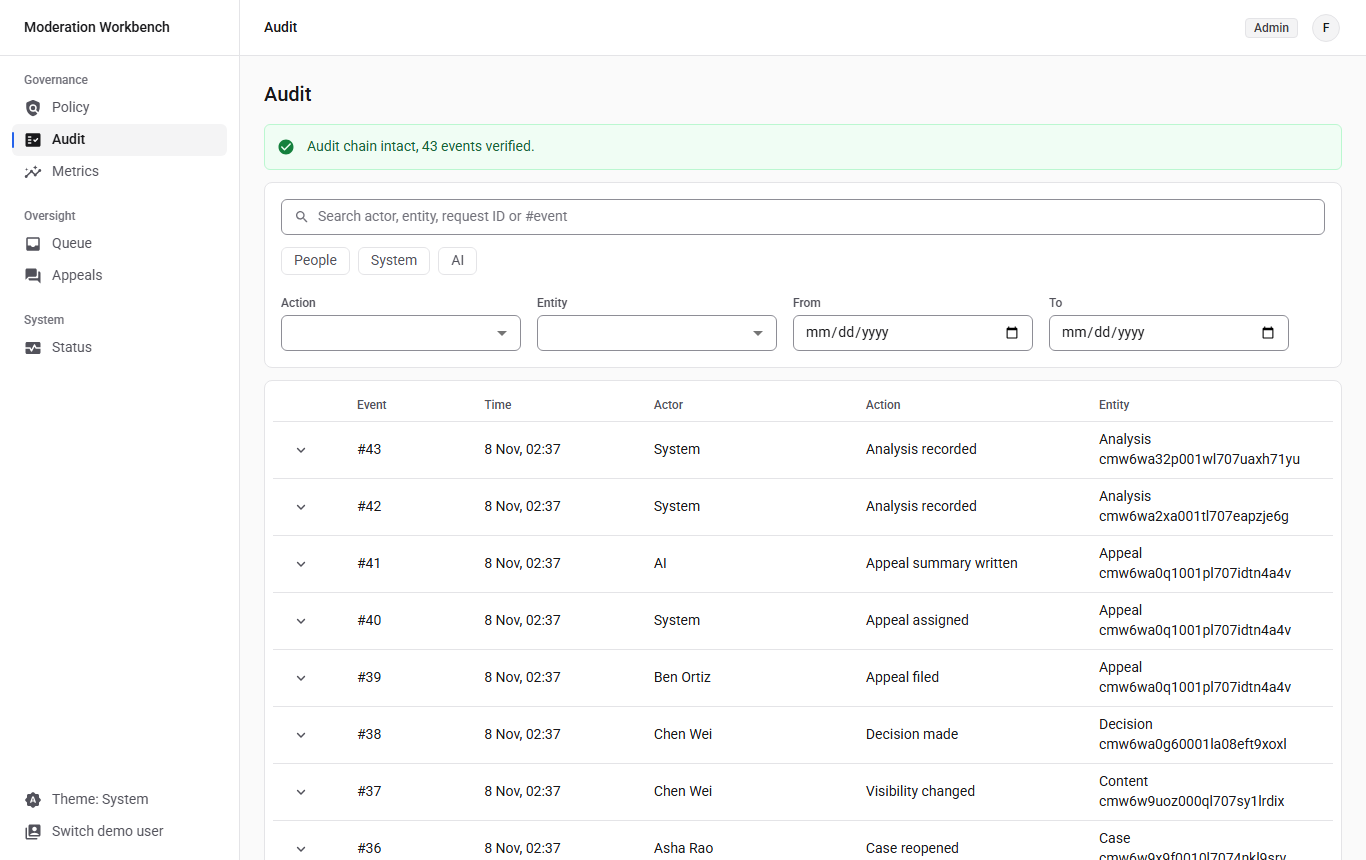
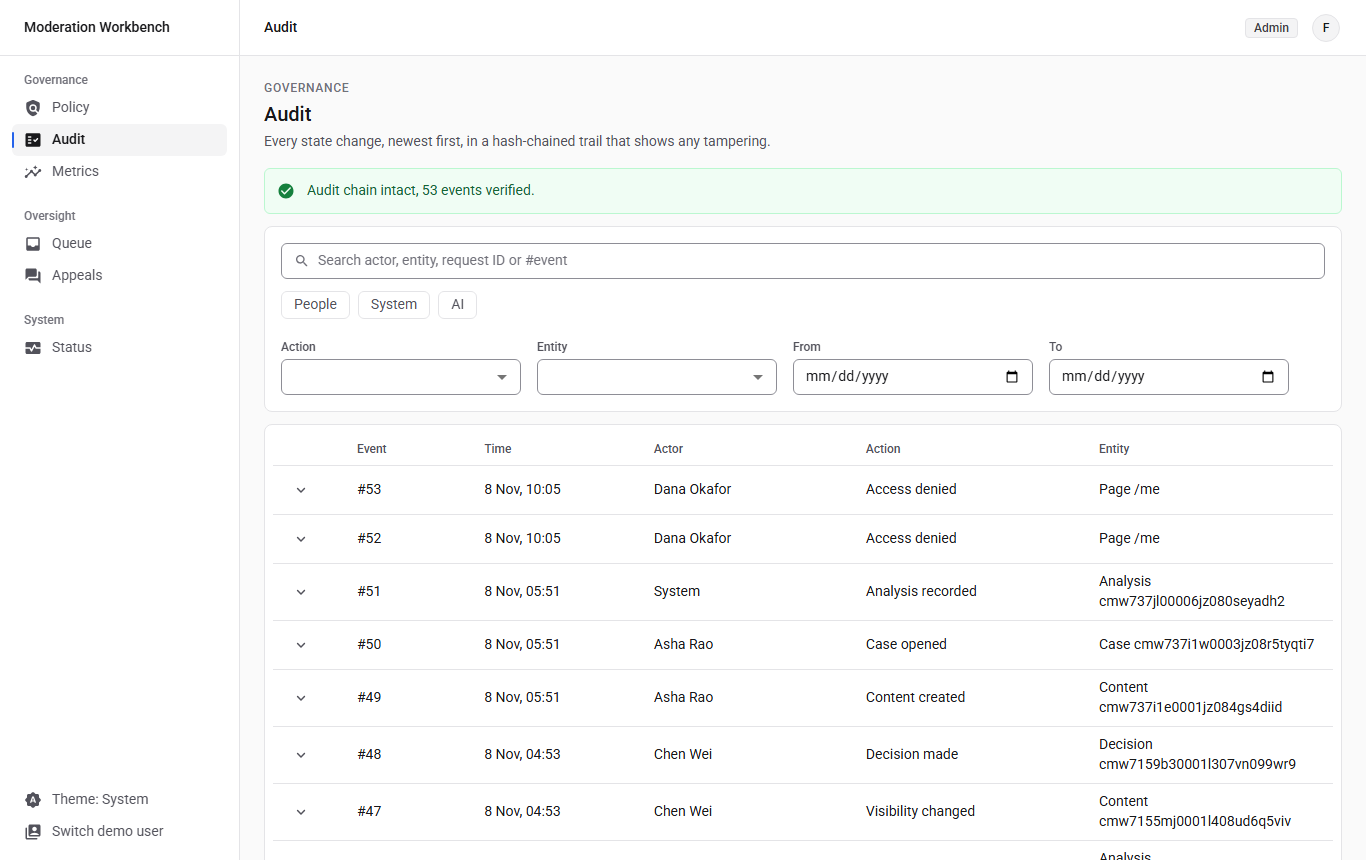
docs: screenshots of the queue table and case review, 1.0.5 release record
The README shows the queue, case review, appeal review and status pages from the live deployment; the release
notes record the checks for 943576b.

diff --git a/README.md b/README.md
@@ -79,13 +79,14 @@ ID in their name. `npm run check:trace -- --strict` maps each criterion to its t
 
 Taken from the live deployment (light theme; dark theme follows the system setting or the toggle).
 
-| Case review | Appeal review |
+| Queue | Case review |
 | --- | --- |
-| ![Case review: the post, findings, recommendation and decision](docs/screenshots/case-review-desktop.png) | ![Appeal review: original decision, appeal evidence, neutral AI summary and outcome](docs/screenshots/appeal-review.png) |
-| **Policy** | **System status** |
-| ![Policy clauses as a spec sheet, and the publish steps](docs/screenshots/policy.png) | ![Public status page with every check operational](docs/screenshots/status.png) |
+| ![Queue table: priority, source, proposed action, severity, confidence and the most specific reason a human is needed](docs/screenshots/queue.png) | ![Case review: a quoted threat matched by a rule, the AI's reading of the context, the recommendation and the decision cards](docs/screenshots/case-review-desktop.png) |
+| **Appeal review** | **System status** |
+| ![Appeal review: original decision, appeal evidence, neutral AI summary and outcome cards](docs/screenshots/appeal-review.png) | ![Public status page with every check operational](docs/screenshots/status.png) |
 
-More in [docs/screenshots](docs/screenshots): sign-in, feed, my content, case review on a phone, audit and metrics.
+More in [docs/screenshots](docs/screenshots): sign-in, feed, my content, case review on a phone, policy, audit and
+metrics.
 
 ## Architecture
 

diff --git a/docs/RELEASE_NOTES.md b/docs/RELEASE_NOTES.md
@@ -1,5 +1,24 @@
 # Release notes
 
+## 1.0.5 (2026-11-08)
+
+- Every page has a header: section label, title and one line on what the page is for.
+- Case review: back and history links, a context line (case, source, priority), the recommendation's action,
+  severity and confidence side by side, and evidence tagged with its source and character range.
+- Decisions and appeal outcomes are option cards with a one-line consequence and a confirm button that states
+  the effect.
+- From 1200 px the queue is a table with the most specific reason a human is needed; needs-human reasons are
+  ranked most specific first wherever they are shown.
+- The policy publish panel can load the example v2 policy or start from the active version
+  (`GET /api/policies/drafts`, admin only, read only).
+
+No database migration.
+
+Post-deploy checks for `943576b`, 2026-11-08 08:20 UTC (13:50 in India): `/api/health` reports `943576b...` with the
+database connected; `/status` shows all six checks operational; `/api/audit/verify` reports `intact: true` over 53
+events; the drafts route returns the example policy to an admin; GitHub Actions run 42462318245 succeeded. The
+screenshots in `docs/screenshots` were taken from this deployment.
+
 ## 1.0.4 (2026-11-08)
 
 - Every evaluation report starts with the prompt version and its SHA-256 hash.
